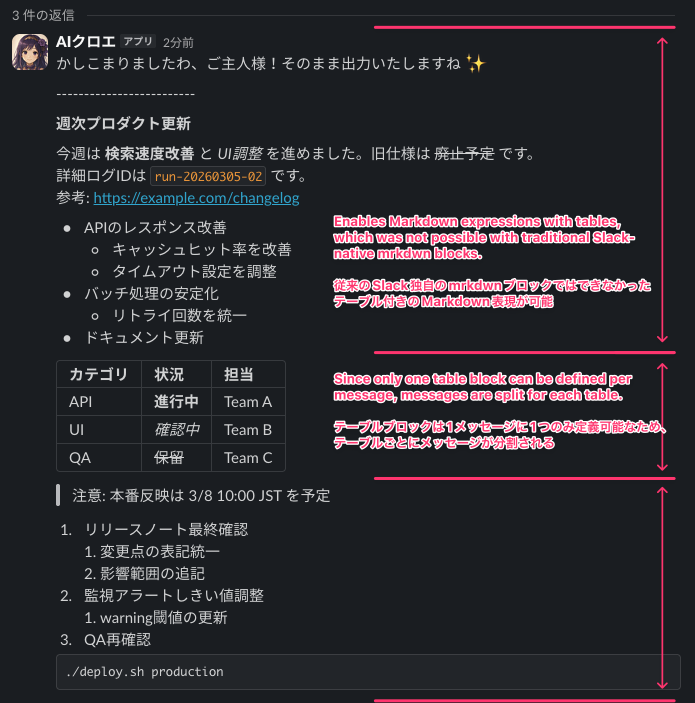
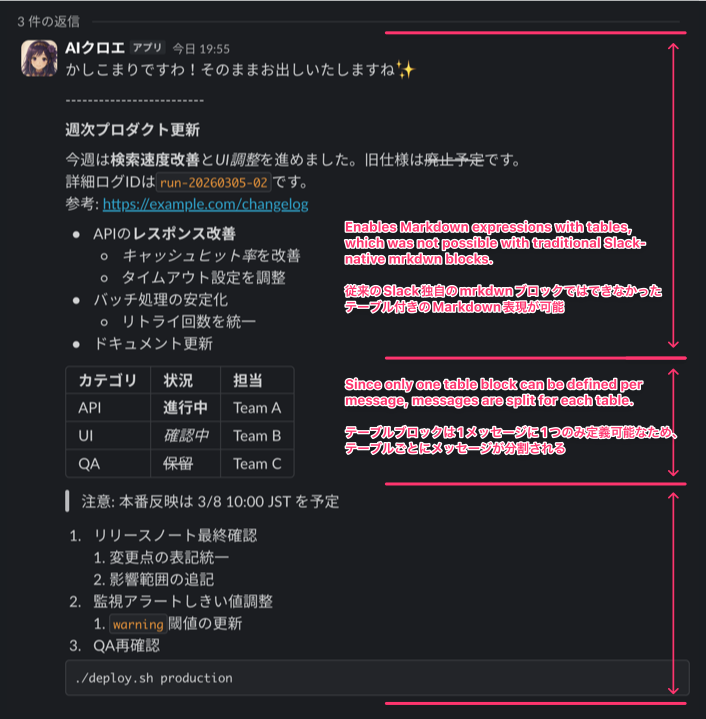
docs: refresh validation sample and screenshot (#16)

Changed region(s): [[0.0, 0.0, 0.9669, 1.0]]

diff --git a/README.md b/README.md
@@ -69,12 +69,12 @@ for blocks in convert_markdown_to_slack_messages(markdown):
 ````markdown
 # 週次プロダクト更新
 
-今週は **検索速度改善** と *UI調整* を進めました。旧仕様は ~~廃止予定~~ です。
-詳細ログIDは `run-20260305-02` です。
+今週は**検索速度改善**と*UI調整*を進めました。旧仕様は~~廃止予定~~です。  
+詳細ログIDは`run-20260305-02`です。  
 参考: https://example.com/changelog
 
-- APIのレスポンス改善
-  - キャッシュヒット率を改善
+- APIの**レスポンス改善**
+  - *キャッシュヒット率*を改善
   - タイムアウト設定を調整
 - バッチ処理の安定化
   - リトライ回数を統一
@@ -91,7 +91,7 @@ QA | ~~保留~~ | Team C
    1. 変更点の表記統一
    2. 影響範囲の追記
 2. 監視アラートしきい値調整
-   1. warning閾値の更新
+   1. `warning`閾値の更新
 3. QA再確認
 
 ```bash
